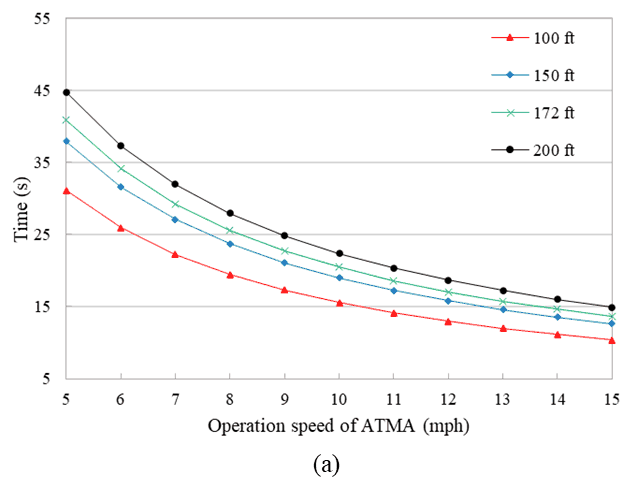
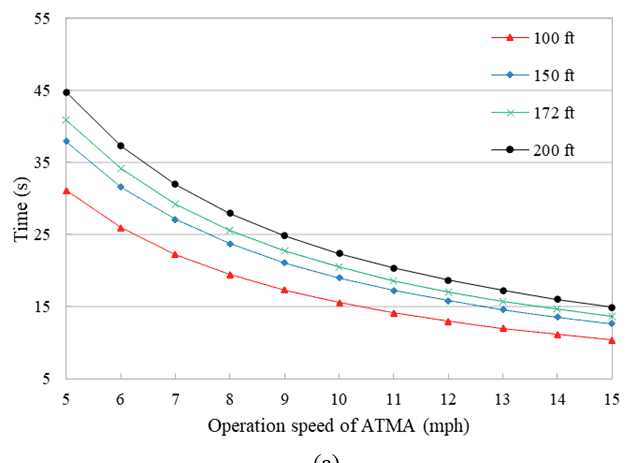
ATMA operation guidelines page: recrop intersection chart; remove paper from queue
Claude-Session: https://claude.ai/code/session_01Tj2JJvRkEJ2FMo5d3DSqZ2

diff --git a/PAPER-QUEUE.md b/PAPER-QUEUE.md
@@ -27,27 +27,25 @@ one at a time with the `atlas-paper-page` skill, each in its own thread. Rank is
   Chen, C.#, Song, Y.#, Hu, X., Wang, D., Liu, J. (2023). A Machine Learning-Based Approach to Assess Impacts of Autonomous Vehicles on Pavement Roughness. Philosophical Transactions of the Royal Society A. Volume 381 Issue 2254. https://doi.org/10.1098/rsta.2022.0176.
 - [ ] **9.** `cheng-drl-trajectory-planning-jits-2023`
   Cheng, Y.#, Hu, X.\*, Chen, K., Yu, X., Luo, Y. (2023). Online Longitudinal Trajectory Planning for Connected and Autonomous Vehicles in Mixed Traffic Flow with Deep Reinforcement Learning Approach. Journal of Intelligent Transportation Systems Technology Planning and Operations. Volume 27, Issue 3, Pages 396-410. https://doi.org/10.1080/15472450.2022.2046472
-- [ ] **10.** `tang-atma-operation-guidelines-trr-2022`
-  Tang, Q.#, Hu, X.\*, Ru, Q. (2022). Development of Operation Guidelines for Leader-Follower Autonomous Maintenance Vehicles at Work Zone Locations. Transportation Research Record: Journal of the Transportation Research Board. 2676(3): 696-711. https://doi.org/10.1177/03611981211056644
-- [ ] **11.** `li-ppdp-smart-card-trc-2020`
+- [ ] **10.** `li-ppdp-smart-card-trc-2020`
   Li, Y.#, Yang, D., Hu, X.\* (2020). A Differential Privacy-Based Privacy-Preserving Data Publishing Algorithm for Transit Smart Card Data. Transportation Research Part C: Emerging Technologies. 115, 102634. https://doi.org/10.1016/j.trc.2020.102634
-- [ ] **12.** `hu-departure-time-ijst-2020`
+- [ ] **11.** `hu-departure-time-ijst-2020`
   Hu, X.\*, Zhu. X., Chiu. Y.C., Tang, Q.# (2020). Will Information and Incentive Affect Traveler's Day-to-Day Departure Time Decisions? - An Empirical Study of Decision Making Evolution Process. International Journal of Sustainable Transportation. 14(6), 403--412. https://doi.org/10.1080/15568318.2019.1570402
-- [ ] **13.** `hu-capacity-reduction-gps-jits-2019`
+- [ ] **12.** `hu-capacity-reduction-gps-jits-2019`
   Hu, X. \*, Yuan, Y., Zhu, X., Yang, H., Xie, K. (2019). Behavioral Responses to Pre-Planned Road Capacity Reduction Based on Smartphone GPS Trajectory Data - A Functional Data Analysis Approach. Journal of Intelligent Transportation Systems: Technology, Planning, and Operations. 23, 133-143. https://doi.org/10.1080/15472450.2018.1488133
-- [ ] **14.** `hu-ubi-contextual-risk-ietits-2019`
+- [ ] **13.** `hu-ubi-contextual-risk-ietits-2019`
   Hu, X\*., Zhu, X., Ma, Y.L., Chiu, Y. C., Tang, Q. # (2019). Advancing Usage Based Insurance – A Contextual Driving Risk Modeling and Analysis Approach. IET Intelligent Transport Systems. 13, 453 – 460. 2019. https://doi.org/10.1049/iet-its.2018.5194
-- [ ] **15.** `ma-ubi-rate-making-tra-2018`
+- [ ] **14.** `ma-ubi-rate-making-tra-2018`
   Ma, Y.L., Zhu, X., Hu, X.\*, Chiu, Y.C. (2018). The Use of Context-Sensitive Insurance Telematics Data in Auto Insurance Rate Making. Transportation Research Part A: Policy and Practice. Volume 113, Pages 243-258. https://doi.org/10.1016/j.tra.2018.04.013
-- [ ] **16.** `an-network-partitioning-mfd-tits-2018`
+- [ ] **15.** `an-network-partitioning-mfd-tits-2018`
   An, K., Chiu, Y.C., Hu, X., and Chen, X. (2018) "A Network Partitioning Algorithmic Approach for Macroscopic Fundamental Diagram-Based Hierarchical Traffic Network Management." IEEE Transactions on Intelligent Transportation Systems. Volume 19, Issue 4, Pages 1130-1139. https://doi.org/10.1109/TITS.2017.2713808
-- [ ] **17.** `hu-od-calibration-tits-2017`
+- [ ] **16.** `hu-od-calibration-tits-2017`
   Hu, X.\*, Chiu Y.C., Villalobos, J., Nava, E. (2017). "A Sequential Decomposition Framework and Method for Calibrating Dynamic Origin-Destination Demand in a Congested Network." IEEE Transactions on Intelligent Transportation Systems. Volume 18, Issue 10, Pages 2790-2797. https://doi.org/10.1109/TITS.2017.2661751
-- [ ] **18.** `hu-behavior-induced-so-tdm-jits-2017`
+- [ ] **17.** `hu-behavior-induced-so-tdm-jits-2017`
   Hu, X.\*, Chiu, Y.C., Shelton, J. (2017). Development of a Behaviorally Induced System Optimal Travel Demand Management System. Journal of Intelligent Transportation Systems: Technology, Planning, and Operations. Volume 21, Issue 1, pages 12-25. https://doi.org/10.1080/15472450.2016.1171151
-- [ ] **19.** `zhu-bayesian-driving-risk-trc-2017`
+- [ ] **18.** `zhu-bayesian-driving-risk-trc-2017`
   Zhu, X., Yuan, Y., Hu, X., Chiu, Y.C., and Ma, Y.L. (2017). "A Bayesian Network model for contextual versus non-contextual driving behavior assessment." Transportation Research Part C: Emerging Technologies. Volume 81, Pages 172-187. 2017. https://doi.org/10.1016/j.trc.2017.05.015
-- [ ] **20.** `hu-incentive-adm-ijtst-2015`
+- [ ] **19.** `hu-incentive-adm-ijtst-2015`
   Hu, X.\*, Chiu, Y.C., Zhu, L. (2015). Behavior Insights for Incentive-Based Active Demand Management Platform. International Journal of Transportation Science and Technology. Volume 4, Issue 2, Pages 119-133. https://doi.org/10.1260/2046-0430.4.2.119
-- [ ] **21.** `hu-vacant-taxi-routing-trr-2012`
+- [ ] **20.** `hu-vacant-taxi-routing-trr-2012`
   Hu, X., Gao, S., Chiu, Y.C., Lin, D.Y. (2012). Modeling Routing Behavior for Vacant Taxi Cabs in Urban Traffic Networks. Transportation Research Record: Journal of the Transportation Research Board. Volume 2284, Issue 1, Pages 81-88. https://doi.org/10.3141%2F2284-10
